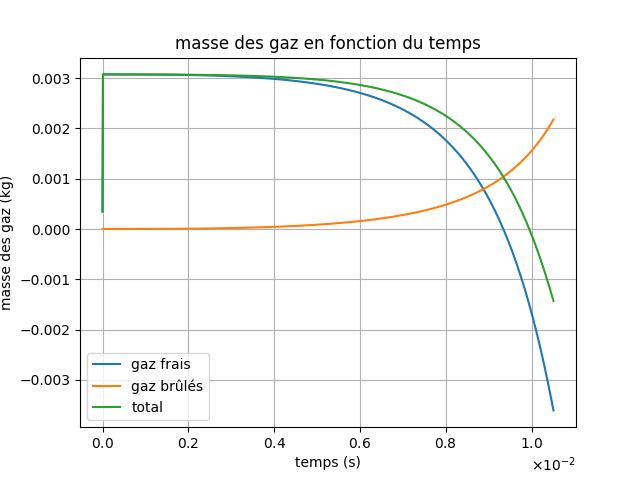
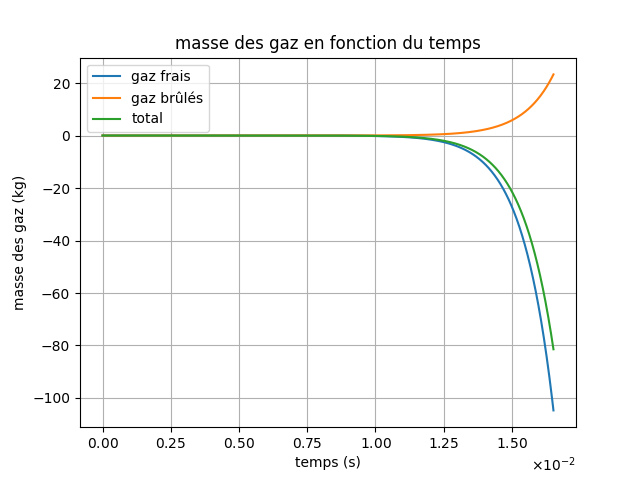
vacances

diff --git a/combustion/combustion.py b/combustion/combustion.py
@@ -1,9 +1,7 @@
 from math import *
-from math import *
 import numpy as np
 import matplotlib.pyplot as plt
 from matplotlib.ticker import ScalarFormatter
-
 
 # variables temps
 dt = 0.00001
@@ -11,31 +9,32 @@ tf = 10
 t = 0
 
 # conditions initiales
-P0 = 101325        # Pa 
-P1 = 101325*19         # Pa
+P0 = 101325        # pression initiale des gaz frais (Pa)
 T0 = 298.15         # température initiale des gaz frais
-T1 = 572.47          # température avant la combustion
-R0 = 0.001          # rayon initiale de la boule allumée
-R_p = 0.05          # rayon du piston
-L_p = 0.03183098862 # longueur du piston
-V = np.pi*R_p**2*L_p  # volume du piston (cylindre)
-
+P1 = 101325*19.3      # pression avant la combustion (Pa)
+T1 = 572.47          # température avant la combustion (K)
+R0 = 0.001          # rayon initiale de la boule allumée (m)
+R_p = 0.05          # rayon du piston (m)
+L_p = 0.03183098862 # longueur du piston (m)
+#V = np.pi*R_p**2*L_p  # volume du piston (cylindre)
+V = 2.82E-05        # volume des gaz dans le piston (m^3)
+print("Volume du piston (m^3) = ", V)
 gamma = 1.2806
 YF0 = 0.0625         
 
-# Expresion de sL en fonction de phi et coefficients
-phi = 1
+# Calcul de la vitesse de flamme initiale sL0 (LIVRE)
+phi = 1                             # richese
 alpha = 2.18 - 0.8*(phi-1)
 beta = -0.16 + 0.22*(phi-1)
 B_M = 26.3*1e-2                      # m/s
 B_phi = -84.7*1e-2                    # m/s
 phi_M = 1.13
-sL0 = B_M + B_phi*(phi-phi_M)**2    #m/s
-print("alpha = ", alpha)
-print("beta = ", beta)
-print("sL0 (m/s)= ", sL0)            
+sL0_livre = B_M + B_phi*(phi-phi_M)**2    #m/s
+#print("alpha = ", alpha)
+#print("beta = ", beta)
+print("sL0 (m/s) dans le livre = ", sL0_livre)            
 
-# Nouvelle corrélation pour sL0
+# Nouvelle corrélation pour sL0 (THESE)
 A = 55.42
 B = -2.22e-14
 C = -171.9
@@ -45,40 +44,63 @@ alpha_1 = 1.58
 alpha_2 = 0.04
 beta_1 = -0.203
 beta_2 = -9.44e-7
-sL0_ref = A + B*(phi - phi_M) + C*(phi - phi_M)**2 + D*(phi - phi_M)**3 + E*(phi - phi_M)**4
+sL0_ref = (A + B*(phi - phi_M) + C*(phi - phi_M)**2 + D*(phi - phi_M)**3 + E*(phi - phi_M)**4)*1e-2 # m/s
 alpha_s = alpha_1 + alpha_2*(phi - phi_M)
 beta_s = beta_1 + beta_2*(phi - phi_M)
-#print("sL0_ref = ", sL0_ref)    
-sL0_new = sL0_ref * (T1/298.15)**alpha_s * (P1/101325)**beta_s*1e-2
-print("sL0_new (m/s) = ", sL0_new)
+sL0_these = sL0_ref * (T1/423)**alpha_s * (P1/101325)**beta_s
+print("sL0_ref (m/s) = ", sL0_ref)
+print("sL0 (m/s) dans la thèse= ", sL0_these)
+
+# Calcul des densités et de r des gaz à haute température
+# Gaz frais : air + c8h18 + n2 à 2000K
+rho_c8h18 = 13.3
+rho_air = 0.1741
+rho_n2 = 0.25
+y_c8h18 = 0.0625
+y_air = 0.9375
+y_n2 = 0.71512
+
+rho_gf = rho_c8h18*y_c8h18 + rho_air*y_air + rho_n2*y_n2
+print("rho_gf calculé = ", rho_gf)
+
+# Gaz brûlés : h2o + co2 + n2 à 2000 K
+rho_h2o = 2.09
+rho_co2 = 5.12
+rho_n2 = 0.259
+y_h2o = 0.0885
+y_co2 = 0.1923
+y_n2 = 0.7192
 
 r_mel = 8.314 / 0.03041748131
 r_bru = 290.7628415
-
-rho_gf = 1.393919518
-rho_gb = 1.7803e1
+rho_gb = rho_h2o*y_h2o + rho_co2*y_co2 + rho_n2*y_n2
+print("rho_gb calculé = ", rho_gb)
+#rho_gf = 1.393919518
+#rho_gb = 1.7803e1
 
 # Variables en t 
-sL_t = sL0
-T_gf_t = T1
-T_gb_t = 2839.52    # température de fin de combustion (calculée pour isochore)
-r_t = R0            # m
-P_t = P1            # Pa
-QF = 44.7e6         # J/kg QLHV pouvoir calorifique du carburant
-i=0
-masse_gb = 4/3*np.pi*r_t**3*rho_gb
-masse_gf = (V - 4/3*np.pi*r_t**3)*rho_gf     
-masse_tot = masse_gb + masse_gf 
-print("masse totale = ", masse_tot)
-print("masse gaz frais = ", masse_gf)
-print("masse gaz brûlés = ", masse_gb)
+sL0 = sL0_livre          # à changer si on veut celle du LIVRE ou de la THESE
+sL_t = sL0               # vitesse de flamme à l'instant t
+T_gf_t = T1              # température des gaz frais (avant la combustion)
+T_gb_t = 2839.52         # température de fin de combustion (calculée pour isochore)
+P_t = P1                 # pression à l'instant t
+r_t = R0                 # m rayon initial de la boule
+vb_t = 4/3*np.pi*r_t**3  # m^3 volume de la boule
+QF = 44.7e6              # J/kg QLHV pouvoir calorifique du carburant
+i=0                 
+masse_gb = vb_t*rho_gb              # masse des gaz brûlés 
+masse_gf = (V -vb_t)*rho_gf        # masse des gaz frais avec comme volume le cylindre du piston moins la boule
+masse_tot = masse_gb + masse_gf                 # masse totale des gaz
+print("masse totale (kg)= ", masse_tot)
+print("masse gaz frais (kg)= ", masse_gf)
+print("masse gaz brûlés (kg)= ", masse_gb)
 
 # variables à stocker
 t_tot = [0]
-P_tot = [P1]
+sL_tot = [sL_t]
 T_gf_tot = [T1]
 T_gb_tot = [2839.52]
-sL_tot = [sL0]
+P_tot = [P1]
 r_tot = [R0]  
 rho_gb_tot = [rho_gb]
 rho_gf_tot = [rho_gf]
@@ -93,13 +115,13 @@ while r_t < 0.9*R_p :
     #r_dt = r_t + dt * (rho_gf/rho_b) * sL_t
     sL_dt = sL0 * (T_gf_t/T0)**alpha * (P_t/P0)**beta
     T_gf_dt = T_gf_t * ((R_p ** 3 - r_t ** 3) / (R_p ** 3 - r_dt ** 3)) ** (gamma - 1)
-
+    vb_t = 4/3*np.pi*r_t**3
 
     rho_gf = P_dt / (r_mel * T_gf_dt)
     rho_gb = P_dt / (r_bru * T_gb_dt)
-    masse_gb = 4/3*np.pi*r_dt**3*rho_gb
-    masse_gf = (V - 4/3*np.pi*r_t**3)*rho_gf     
-    #masse_gf  = rho_gf * sL_t  * 4*np.pi*r_t**2*
+    masse_gb = vb_t*rho_gb
+    masse_gf = (V -vb_t)*rho_gf     
+    #masse_gf  = rho_gf * sL_t  * 4*np.pi*r_t**2
     masse_tot = masse_gb + masse_gf
     i+=1
 
@@ -214,5 +236,9 @@ angle_nominal = 12000 / 60 * t * 360 #en °
 print('Angle nécessaire à la combustion (ralenti) : ' + str(angle_ralenti))
 print('Angle nécessaire à la combustion (nominal) : ' + str(angle_nominal))
 
+reponse = input("Afficher les graphes ? (y/n) : ").strip().lower()
 
-plt.show()
+if reponse == "y":
+    plt.show()
+else:
+    print("Graphique non affiché.")
